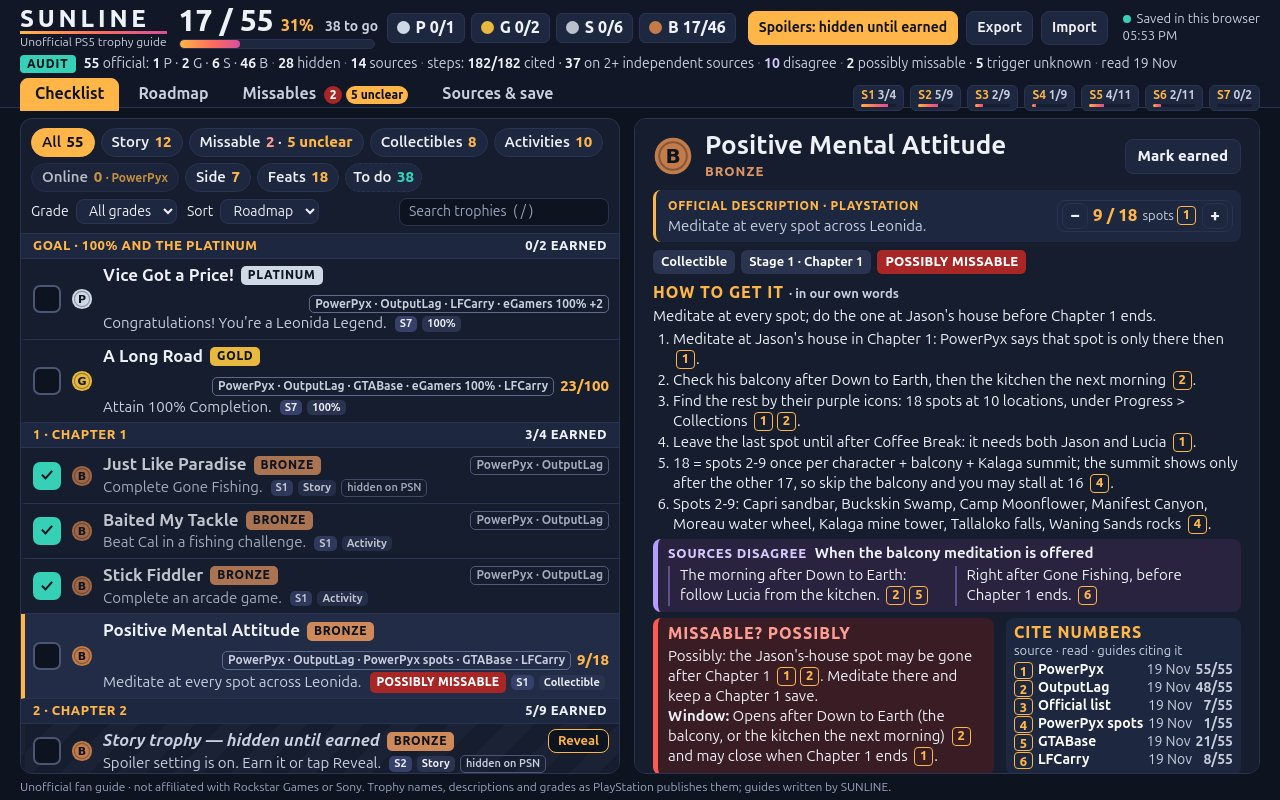
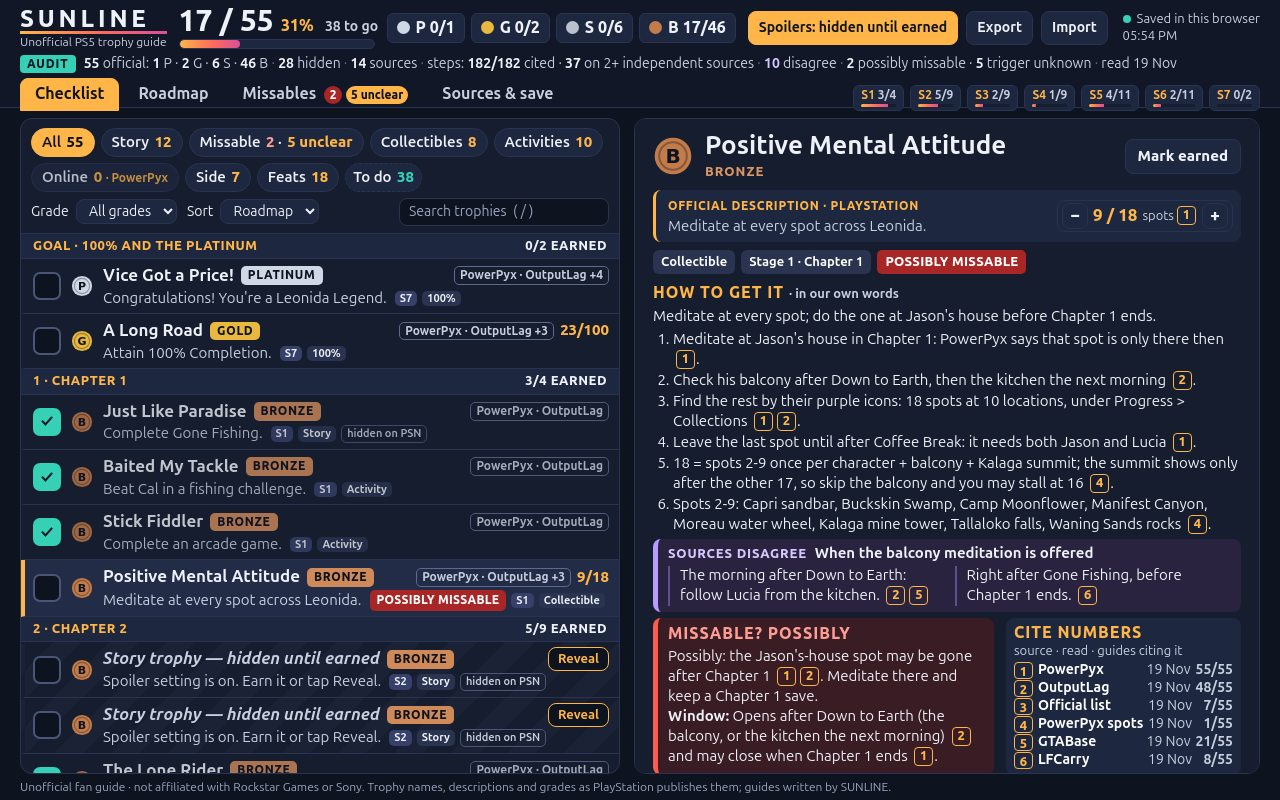
SUNLINE G6 4: row source tag shows the first two guides and '+n' (full list in its tooltip), so it stays on the name line and the cover shows about 10 rows instead of 8; shot 1 re-taken (250,869 B at q83), cut text 0

Changed region(s): [[0.0, 0.3125, 0.5, 0.9688]]

diff --git a/app/js/views/checklist-view.js b/app/js/views/checklist-view.js
@@ -128,7 +128,8 @@ function rowHtml(t, state) {
     `<div class="row-main"><div class="row-line">` +
     `<span class="row-name">${escapeHtml(maskedName(t, p))}</span><span class="gw gw-${t.grade}">${t.grade}</span>` +
     `<span class="row-end">` +
-    (masked ? "" : `<span class="row-src" title="Sources this guide cites">${escapeHtml(rowSources(t, state.sources))}</span>`) +
+    (masked ? "" : `<span class="row-src" title="Sources this guide cites: ${escapeHtml(rowSources(t, state.sources, true))}">` +
+      `${escapeHtml(rowSources(t, state.sources))}</span>`) +
     `${counter}${reveal}</span></div>` +
     `<div class="row-line row-sub"><span class="row-desc">${escapeHtml(maskedDescription(t, p))}</span>` +
     `${missableFlagHtml(t, true)}<span class="tag tag-stage">S${t.stage}</span><span class="tag">${ROW_KIND[t.kind]}</span>` +
@@ -139,12 +140,15 @@ function rowHtml(t, state) {
 const ROW_KIND = { story: "Story", side: "Side", activity: "Activity", collectible: "Collectible", feat: "Feat", completion: "100%" };
 
 // Row source names: the guide sites by name first; the official list is implied by the description itself.
-function rowSources(trophy, sources) {
+// Full list for the tooltip; the tag itself shows the first two guides and "+n" so it stays on the name line.
+function rowSources(trophy, sources, full = false) {
   const keys = [...new Set(trophy.cites.map((c) => c.src))].filter((k) => sources[k]);
   const guides = keys.filter((k) => sources[k].role === "guide").map((k) => sources[k].short);
   const lists = keys.length - guides.length;
   if (!guides.length) return keys.map((k) => sources[k].short).join(" · ");
-  return guides.join(" · ") + (lists > 1 ? ` +${lists - 1}` : "");
+  if (full) return guides.join(" · ") + (lists > 1 ? ` +${lists - 1}` : "");
+  const more = guides.length - 2 + Math.max(lists - 1, 0);
+  return guides.slice(0, 2).join(" · ") + (more > 0 ? ` +${more}` : "");
 }
 
 // The #/save view: banner with the spoiler rule and the save-file format above the story checklist.
